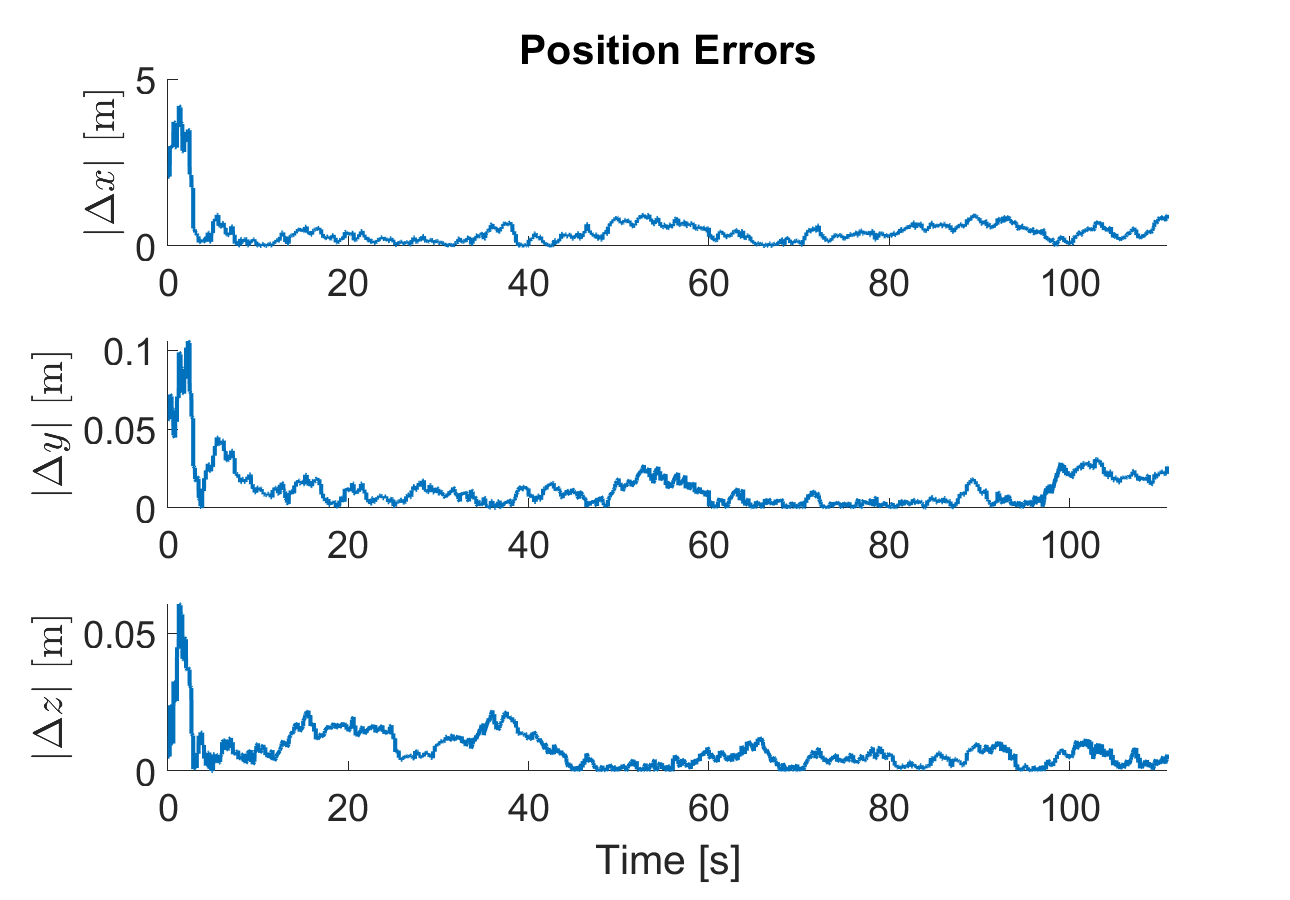
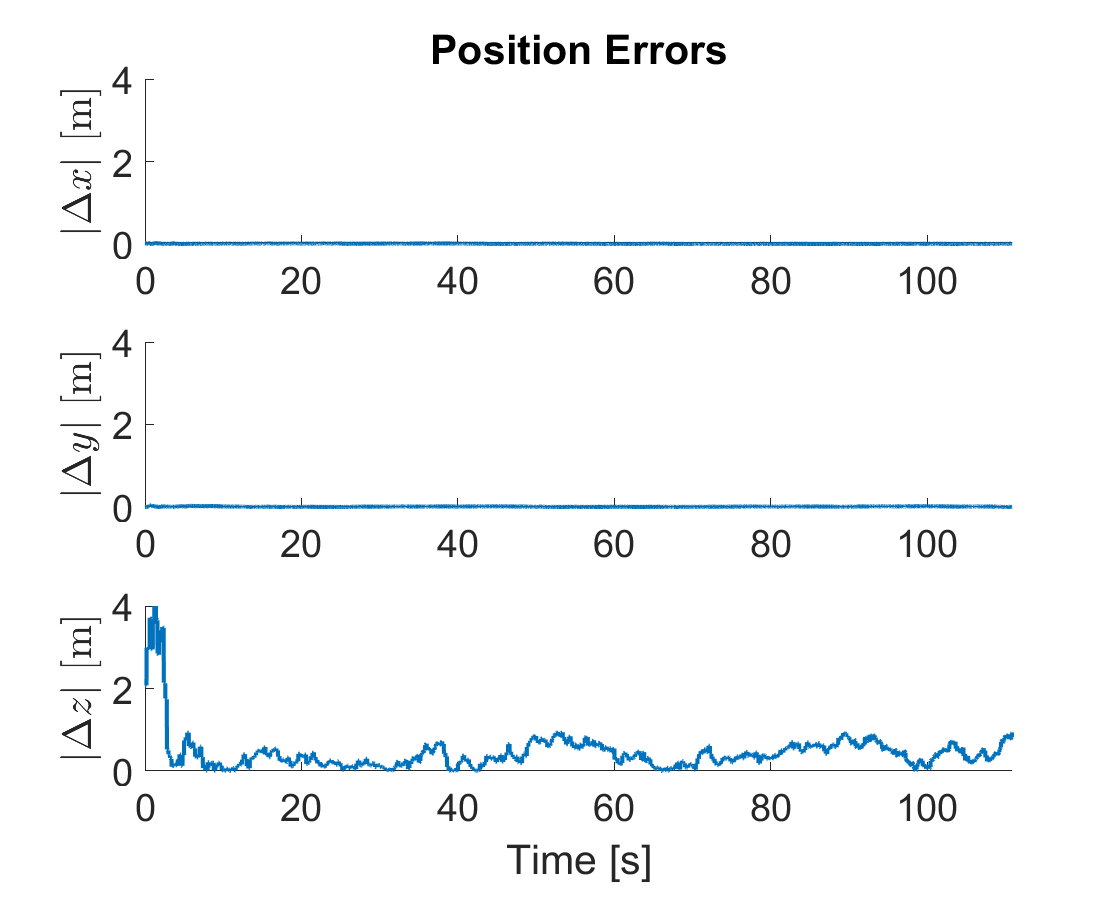
updated plots

diff --git a/plotData.m b/plotData.m
@@ -1,6 +1,6 @@
 function plotData(esti,ref)
 % plot size
-plotSize = [0.25 0.25 0.3 0.5];
+plotSize = [0.25 0.25 0.26 0.5];
 weight = 2;
 R2D = 180/pi;
 %% 3D TRAJECTORY
@@ -63,6 +63,7 @@ nexttile
 hold on
 plot(esti.t, abs(wrapTo180(R2D.*(esti.roll - ref.roll))),'LineWidth', weight)
 xlim([esti.tg(1) esti.tg(end)])
+ylim([0 8])
 ylabel('$$\vert\Delta\phi\vert$$ [deg]','Interpreter','latex')
 title('Euler Angle Errors')
 ax = gca;
@@ -71,6 +72,7 @@ ax.FontSize = 18;
 nexttile
 hold on
 plot(esti.t, abs(wrapTo180(R2D.*(esti.pitch - ref.pitch))),'LineWidth', weight)
+ylim([0 8])
 xlim([esti.tg(1) esti.tg(end)])
 ylabel('$$\vert\Delta\theta\vert$$ [deg]','Interpreter','latex')
 ax = gca;
@@ -79,6 +81,7 @@ ax.FontSize = 18;
 nexttile
 hold on
 plot(esti.t, abs(wrapTo180(R2D.*(esti.yaw - ref.yaw))),'LineWidth', weight)
+ylim([0 8])
 xlim([esti.tg(1) esti.tg(end)])
 ylabel('$$\vert\Delta\psi\vert$$ [deg]','Interpreter','latex')
 xlabel('Time [s]')
@@ -126,6 +129,7 @@ hold on
 plot(esti.t, abs(esti.vel(:,1) - ref.vel(:,1)),'LineWidth', 2)
 ylabel('$$\vert\Delta V_N\vert$$ [m/s]','Interpreter','latex')
 title('Velocity Errors')
+ylim([0 1])
 xlim([esti.tg(1) esti.tg(end)])
 ax = gca;
 ax.FontSize = 18;
@@ -134,6 +138,7 @@ nexttile
 hold on
 plot(esti.t, abs(esti.vel(:,2) - ref.vel(:,2)),'LineWidth', 2)
 ylabel('$$\vert\Delta V_E\vert$$ [m/s]','Interpreter','latex')
+ylim([0 1])
 xlim([esti.tg(1) esti.tg(end)])
 ax = gca;
 ax.FontSize = 18;
@@ -142,6 +147,7 @@ nexttile
 hold on
 plot(esti.t, abs(esti.vel(:,3) - ref.vel(:,3)),'LineWidth', 2)
 ylabel('$$\vert\Delta V_D\vert$$ [m/s]','Interpreter','latex')
+ylim([0 1])
 xlim([esti.tg(1) esti.tg(end)])
 xlabel('Time [s]')
 ax = gca;
@@ -182,33 +188,38 @@ ax.FontSize = 18;
 
 %% POSITION ERRORS
 
-estiPosition_ECEF = lla2ecef([esti.lat esti.lon esti.h],'WGS84');
-refPosition_ECEF = lla2ecef([ref.lat ref.lon ref.h],'WGS84');
-fig_pos_err = figure('Units','normalized','Position',plotSize,'Name','Position Errors');
-tiledlayout(3,1)
+estiPosition_ECEF = lla2ned([esti.lat esti.lon esti.h],[ref.lat(1) ref.lon(1) ref.h(1)],'ellipsoid');
+refPosition_ECEF = lla2ned([ref.lat ref.lon ref.h],[ref.lat(1) ref.lon(1) ref.h(1)],'ellipsoid');
+
+fig_pos_err_NE = figure('Units','normalized','Position',plotSize,'Name','Position Errors');
+tiledlayout(2,1)
 nexttile
 hold on
 plot(esti.t, abs(estiPosition_ECEF(:,1) - refPosition_ECEF(:,1)),'LineWidth', 2)
+ylim([0 0.03])
 xlim([esti.tg(1) esti.tg(end)])
-ylabel('$$\vert\Delta x\vert$$ [m]','Interpreter','latex')
-title('Position Errors')
+ylabel('$$\vert\Delta N\vert$$ [m]','Interpreter','latex')
+title('Position Errors: North and East')
 ax = gca;
 ax.FontSize = 18;
 
 nexttile
 hold on
 plot(esti.t, abs(estiPosition_ECEF(:,2) - refPosition_ECEF(:,2)),'LineWidth', 2)
+ylim([0 0.03])
 xlim([esti.tg(1) esti.tg(end)])
-ylabel('$$\vert\Delta y\vert$$ [m]','Interpreter','latex')
+ylabel('$$\vert\Delta E\vert$$ [m]','Interpreter','latex')
 ax = gca;
 ax.FontSize = 18;
 
-nexttile
+fig_pos_err_D = figure('Units','normalized','Position',[0.25 0.25 0.26 0.25],'Name','Position Errors');
 hold on
 plot(esti.t, abs(estiPosition_ECEF(:,3) - refPosition_ECEF(:,3)),'LineWidth', 2)
+ylim([0 1])
 xlim([esti.tg(1) esti.tg(end)])
+title('Position Errors: Down Only')
 xlabel('Time [s]')
-ylabel('$$\vert\Delta z\vert$$ [m]','Interpreter','latex')
+ylabel('$$\vert\Delta D\vert$$ [m]','Interpreter','latex')
 ax = gca;
 ax.FontSize = 18;
 
@@ -273,7 +284,8 @@ saveas(fig_eul_err,"figures/Euler_Angle_error.png")
 saveas(fig_vel,"figures/NED_Velocities.png")
 saveas(fig_vel_err,"figures/NED_Velocity_error.png")
 saveas(fig_pos,"figures/LLA_Positions.png")
-saveas(fig_pos_err,"figures/LLA_Position_error.png")
+saveas(fig_pos_err_NE,"figures/LLA_Position_error_NE.png")
+saveas(fig_pos_err_D,"figures/LLA_Position_error_D.png")
 saveas(fig_gyr_bias,"figures/Gyroscope_Bias_Estimation.png")
 saveas(fig_acc_bias,"figures/Acclerometer_Bias_Estimation.png")
 end

diff --git a/main.m b/main.m
@@ -83,7 +83,7 @@ measNoiseMat = diag([simulatedGPS.stdv simulatedGPS.stdm]).^2;
 deltaZ = zeros(6,1);
 
 % Propagate prior estimates to get xp(1) and Pp(1)
-kalmanGain = (pMinus*measurementMat')*(measNoiseMat + measurementMat*pMinus*measurementMat')^(-1) ;			% Kalman gain matrix
+kalmanGain = (pMinus*measurementMat')*(measurementMat*pMinus*measurementMat' + measNoiseMat)^(-1) ;			% Kalman gain matrix
 
 % Step 4, update the a posteriori state vector, xp
 errorState_plus = errorState_minus + kalmanGain*deltaZ;
